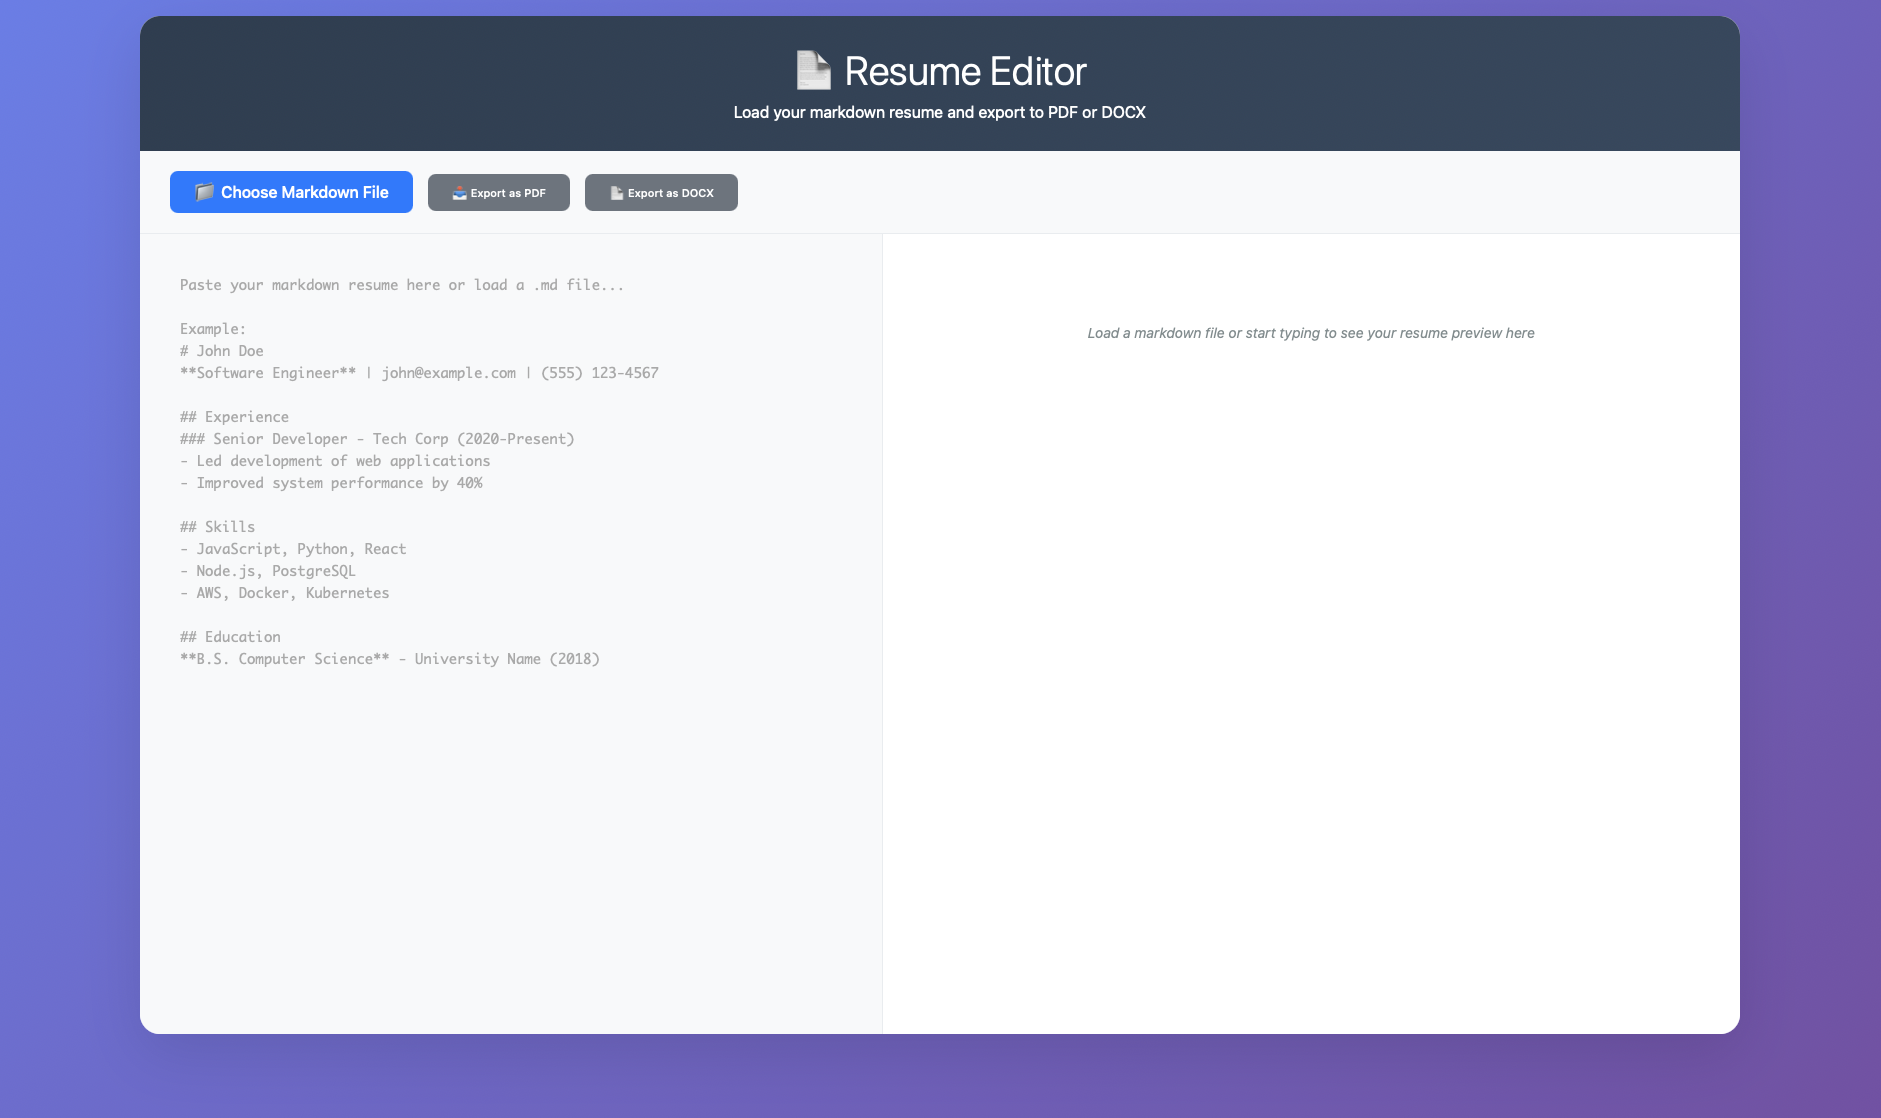
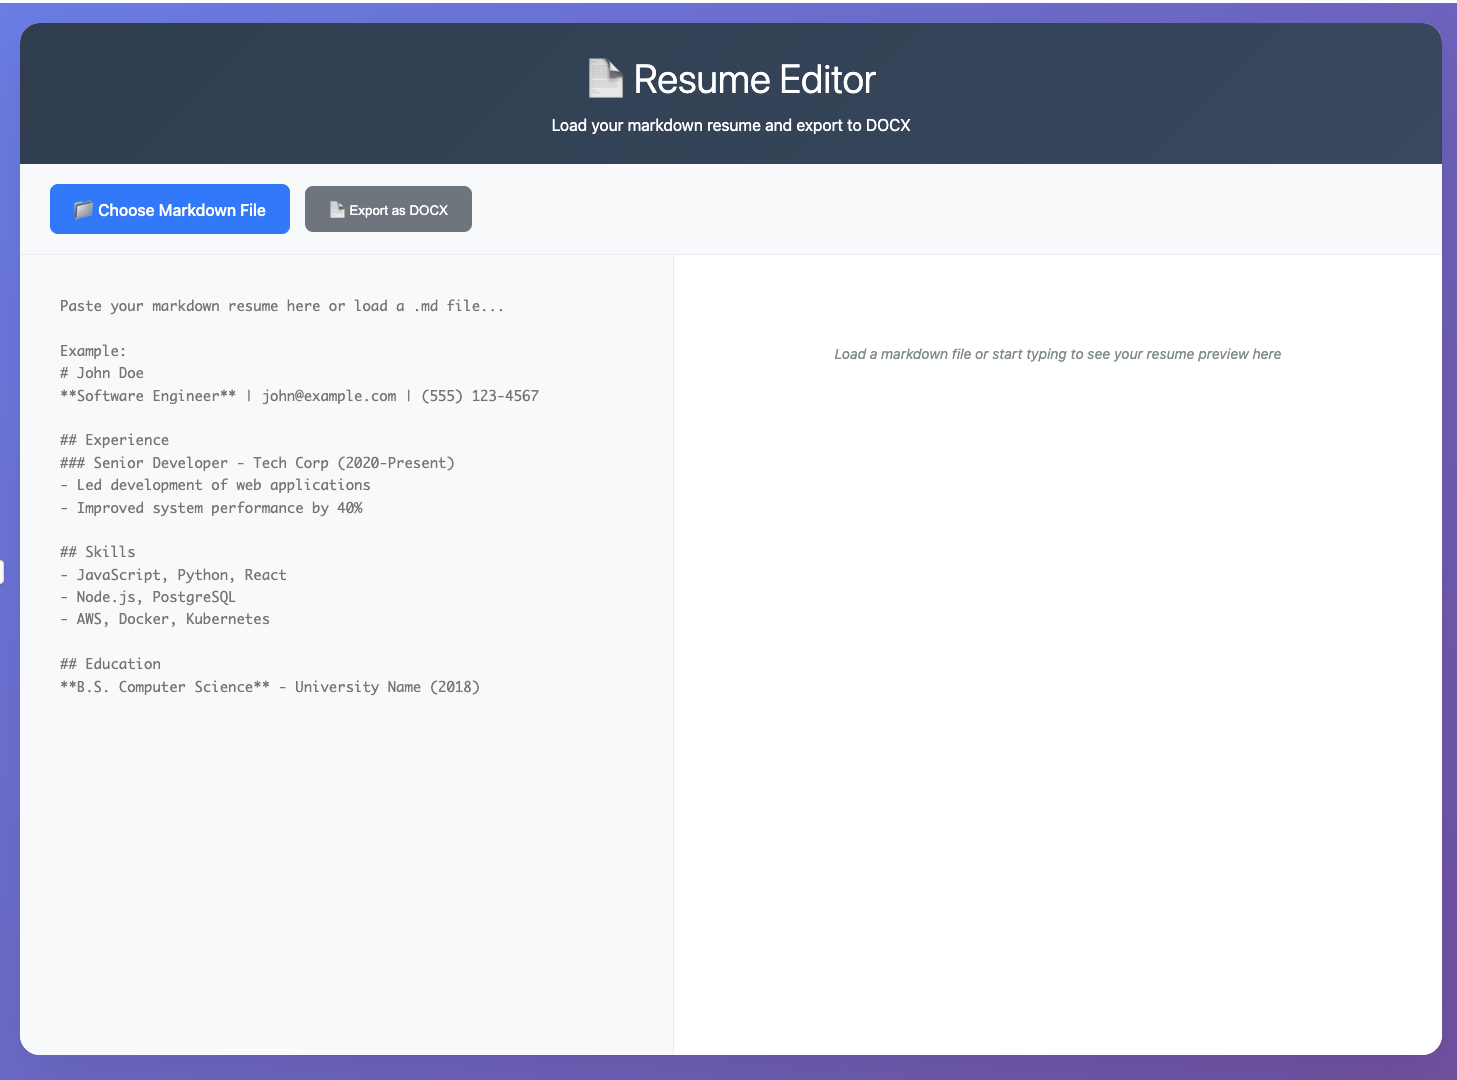
removed PDF option

Changed region(s): [[0.0, 0.0, 1.0, 0.9778], [0.5868, 0.275, 0.8648, 0.3361], [0.2162, 0.5806, 0.3397, 0.6417]]

diff --git a/intex.html b/intex.html
@@ -5,7 +5,6 @@
     <meta name="viewport" content="width=device-width, initial-scale=1.0">
     <title>Resume Editor</title>
     <script src="https://cdnjs.cloudflare.com/ajax/libs/marked/4.3.0/marked.min.js"></script>
-    <script src="https://cdnjs.cloudflare.com/ajax/libs/html2pdf.js/0.10.1/html2pdf.bundle.min.js"></script>
     <script src="https://cdnjs.cloudflare.com/ajax/libs/FileSaver.js/2.0.5/FileSaver.min.js"></script>
     <script src="https://unpkg.com/html-docx-js@0.3.1/dist/html-docx.js"></script>
     <style>
@@ -83,33 +82,6 @@
             background: #0056b3;
             transform: translateY(-2px);
             box-shadow: 0 4px 12px rgba(0,123,255,0.3);
-        }
-
-        .export-btn {
-            background: #28a745;
-            color: white;
-            border: none;
-            padding: 12px 24px;
-            border-radius: 8px;
-            cursor: pointer;
-            font-weight: 500;
-            transition: all 0.3s ease;
-            display: flex;
-            align-items: center;
-            gap: 8px;
-        }
-
-        .export-btn:hover {
-            background: #1e7e34;
-            transform: translateY(-2px);
-            box-shadow: 0 4px 12px rgba(40,167,69,0.3);
-        }
-
-        .export-btn:disabled {
-            background: #6c757d;
-            cursor: not-allowed;
-            transform: none;
-            box-shadow: none;
         }
 
         .export-docx-btn {
@@ -292,7 +264,7 @@
                 align-items: stretch;
             }
             
-            .file-label, .export-btn, .export-docx-btn {
+            .file-label, .export-docx-btn {
                 justify-content: center;
             }
 
@@ -351,7 +323,7 @@
     <div class="container">
         <div class="header">
             <h1>📄 Resume Editor</h1>
-            <p>Load your markdown resume and export to PDF or DOCX</p>
+            <p>Load your markdown resume and export to DOCX</p>
         </div>
         
         <div class="controls">
@@ -361,9 +333,6 @@
                     📁 Choose Markdown File
                 </label>
             </div>
-            <button id="exportBtn" class="export-btn" disabled>
-                📥 Export as PDF
-            </button>
             <button id="exportDocxBtn" class="export-docx-btn" disabled>
                 📄 Export as DOCX
             </button>
@@ -409,7 +378,6 @@ Example:
         const fileInput = document.getElementById('fileInput');
         const markdownInput = document.getElementById('markdownInput');
         const resumePreview = document.getElementById('resumePreview'); // Changed to target the resume-content div directly
-        const exportBtn = document.getElementById('exportBtn');
         const exportDocxBtn = document.getElementById('exportDocxBtn');
         let debounceTimer;
 
@@ -446,76 +414,19 @@ Example:
                 try {
                     const html = marked.parse(markdownText); // Parse markdown to HTML
                     resumePreview.innerHTML = html; // Display HTML in preview area
-                    exportBtn.disabled = false; // Enable PDF export button
                     exportDocxBtn.disabled = false; // Enable DOCX export button
                 } catch (error) {
                     // Display error message if markdown parsing fails
                     resumePreview.innerHTML = '<div class="sample-resume">Error parsing markdown. Please check your syntax.</div>';
-                    exportBtn.disabled = true; // Disable export buttons on error
                     exportDocxBtn.disabled = true;
                     console.error('Markdown parsing error:', error);
                 }
             } else {
                 // Display sample text if input is empty
                 resumePreview.innerHTML = '<div class="sample-resume">Load a markdown file or start typing to see your resume preview here</div>';
-                exportBtn.disabled = true; // Disable export buttons
-                exportDocxBtn.disabled = true;
+                exportDocxBtn.disabled = true; // Disable export button
             }
         }
-
-        // Export to PDF function
-        exportBtn.addEventListener('click', function() {
-            // Create a temporary element to hold the content for PDF generation
-            // This ensures only the actual resume content is exported, without page break visuals
-            const tempPdfElement = document.createElement('div');
-            tempPdfElement.style.width = '8.5in'; // Match letter width
-            tempPdfElement.style.padding = '0.5in 0.6in'; // Match desired margins
-            tempPdfElement.innerHTML = marked.parse(markdownInput.value.trim()); // Parse markdown directly
-
-            document.body.appendChild(tempPdfElement); // Temporarily add to DOM for html2pdf to render
-
-            // PDF generation options
-            const opt = {
-                margin: [0.5, 0.6, 0.5, 0.6], // Top, Left, Bottom, Right margins in inches
-                filename: 'resume.pdf',
-                image: { type: 'jpeg', quality: 0.98 }, // Image quality for canvas rendering
-                html2canvas: { 
-                    scale: 2, // Scale factor for rendering HTML to canvas (higher for better quality)
-                    useCORS: true, // Enable cross-origin images (if any)
-                    letterRendering: true // Optimize text rendering
-                },
-                jsPDF: { 
-                    unit: 'in', // Unit for jsPDF (inches)
-                    format: 'letter', // Page format (Letter: 8.5in x 11in)
-                    orientation: 'portrait' // Page orientation
-                }
-            };
-
-            exportBtn.textContent = '⏳ Generating PDF...'; // Update button text
-            exportBtn.disabled = true; // Disable button during generation
-            exportDocxBtn.disabled = true; // Disable other export button too
-
-            // Generate and save PDF
-            html2pdf().set(opt).from(tempPdfElement).save().then(() => {
-                document.body.removeChild(tempPdfElement); // Clean up temporary element
-                exportBtn.innerHTML = '📥 Export as PDF'; // Restore button text
-                // Re-enable buttons if markdown content exists
-                if (markdownInput.value.trim()) { 
-                    exportBtn.disabled = false;
-                    exportDocxBtn.disabled = false;
-                }
-            }).catch((error) => {
-                document.body.removeChild(tempPdfElement); // Clean up temporary element even on error
-                console.error('PDF generation failed:', error);
-                console.warn('Failed to generate PDF. Please try again.'); // User-friendly warning
-                exportBtn.innerHTML = '📥 Export as PDF'; // Restore button text
-                // Re-enable buttons if markdown content exists
-                 if (markdownInput.value.trim()) {
-                    exportBtn.disabled = false;
-                    exportDocxBtn.disabled = false;
-                }
-            });
-        });
 
         // Function to get CSS styles specifically for DOCX export
         function getDocxStyles() {
@@ -609,7 +520,6 @@ Example:
         exportDocxBtn.addEventListener('click', function() {
             exportDocxBtn.textContent = '⏳ Generating DOCX...'; // Update button text
             exportDocxBtn.disabled = true; // Disable button during generation
-            exportBtn.disabled = true; // Disable other export button too
 
             try {
                 // Get HTML content by parsing markdown directly, excluding visual page breaks
@@ -656,19 +566,17 @@ Example:
                 saveAs(converted, 'resume.docx');
 
                 exportDocxBtn.innerHTML = '📄 Export as DOCX'; // Restore button text
-                // Re-enable buttons if markdown content exists
+                // Re-enable button if markdown content exists
                 if (markdownInput.value.trim()) { 
                    exportDocxBtn.disabled = false;
-                   exportBtn.disabled = false;
                 }
             } catch (error) {
                 console.error('DOCX generation failed:', error);
                 console.warn('Failed to generate DOCX. Please try again.'); // User-friendly warning
                 exportDocxBtn.innerHTML = '📄 Export as DOCX'; // Restore button text
-                // Re-enable buttons if markdown content exists
+                // Re-enable button if markdown content exists
                 if (markdownInput.value.trim()) {
                    exportDocxBtn.disabled = false;
-                   exportBtn.disabled = false;
                 }
             }
         });

diff --git a/README.md b/README.md
@@ -1,72 +1,48 @@
-# **Resume Editor**
+# 📄 Resume Editor
 
-This is a simple web application designed to help you manage your resume in a browser. It's particularly useful for tailoring your resume to different job descriptions, aiming to simplify the updating process and reduce the effort often associated with optimizing for Applicant Tracking Systems (ATS). Write your resume in Markdown, preview it in your browser, and then export it as a professional PDF or DOCX document.
+A simple browser-based tool to edit markdown resumes and export to DOCX. Perfect for quickly tailoring your resume for different job applications.
 
-## **Features**
+## 🌐 Live Demo
 
-* **Markdown to HTML Conversion:** Your Markdown resume is converted and displayed as standard HTML right in your browser.  
-* **File Upload:** You can easily load your resume from a .md or .txt file.  
-* **Live Preview:** As you type or load a file, you'll see your resume update instantly on the right side of the screen.  
-* **Export to PDF:** Generate a PDF version of your resume, complete with predefined page margins and in standard letter format.  
-* **Export to DOCX:** Create a Microsoft Word (.docx) document of your resume, also with consistent page margins and letter format.  
-* **Consistent Margins:** Ensure the page margins look similar whether you're viewing it in your browser, as a PDF, or as a DOCX file.
+Visit the live application: [https://bgx4k3p.github.io/resume-editor](https://bgx4k3p.github.io/resume-editor)
 
-## **How to Use**
+## 🎯 Why Use This?
 
-Setting up and using this project is quite simple, as it's just a single HTML file.
+- **Quick customization**: Edit your resume in markdown for fast changes
+- **No software needed**: Runs entirely in your browser
+- **Professional output**: Export clean DOCX files ready for job applications
+- **Version control friendly**: Keep your resume in markdown format for version control and other automations
 
-1. **Download:** Grab the resume-editor.html file and save it to your computer.  
-2. **Open in Browser:** Just double-click the resume-editor.html file, or drag it into your preferred web browser (like Chrome, Firefox, Edge, or Safari).
+## ✨ How to Use
 
-### **Viewing Your Resume**
+1. **Start typing** your resume in markdown format (left panel)
+2. **See live preview** in the right panel
+3. **Export to DOCX** when ready
+4. Or **load existing** `.md` files to edit
 
-* **Type Directly:** You can start typing or paste your Markdown-formatted resume directly into the large text area on the left. The preview will update as you go.  
-* **Load a File:** If you have your resume saved as a Markdown file, click the "Choose Markdown File" button to select a .md or .txt file from your computer. The content will appear in the editor, and the preview will update.
+## 📝 Example Resume Format
 
-### **Exporting Your Resume**
+```markdown
+# John Doe
+**Software Engineer** | john@example.com | (555) 123-4567
 
-Once your resume looks good in the preview:
+## Experience
+### Senior Developer - Tech Corp (2020-Present)
+- Led development of web applications
+- Improved system performance by 40%
 
-* **Export as PDF:** Click the "Export as PDF" button. A PDF file named resume.pdf will be created and downloaded.  
-* **Export as DOCX:** Click the "Export as DOCX" button. A DOCX file named resume.docx will be created and downloaded.
+## Skills
+- JavaScript, Python, React
+- AWS, Docker, Kubernetes
 
-## **Margin Consistency**
+## Education
+**B.S. Computer Science** - University Name (2018)
+```
 
-The application is set up to use standard **Letter (8.5in x 11in)** paper format with the following margins for both PDF and DOCX exports:
+## 💡 Perfect For
 
-* **Top Margin:** 0.5 inches  
-* **Bottom Margin:** 0.5 inches  
-* **Left Margin:** 0.6 inches  
-* **Right Margin:** 0.6 inches
+Job seekers who need to quickly customize resumes for different applications without the hassle of traditional word processors.
 
-The live web preview is designed to give you a good idea of how these margins will look in the final exported documents.
+## 📄 License
 
-## **Technologies Used**
-
-This project relies on a few key web technologies and libraries:
-
-* **HTML5:** Provides the basic structure for the web page.  
-* **CSS3:** Handles all the styling and ensures the layout adapts to different screen sizes.  
-* **JavaScript (ES6+):** Powers all the interactive features.  
-* **Marked.js:** This library quickly converts your Markdown text into HTML.  
-  * [https://cdnjs.cloudflare.com/ajax/libs/marked/4.3.0/marked.min.js](https://cdnjs.cloudflare.com/ajax/libs/marked/4.3.0/marked.min.js)  
-* **html2pdf.js:** Used for generating PDF files directly from the HTML content.  
-  * [https://cdnjs.cloudflare.com/ajax/libs/html2pdf.js/0.10.1/html2pdf.bundle.min.js](https://cdnjs.cloudflare.com/ajax/libs/html2pdf.js/0.10.1/html2pdf.bundle.min.js)  
-* **FileSaver.js:** Helps in saving the generated PDF and DOCX files to your computer.  
-  * [https://cdnjs.cloudflare.com/ajax/libs/FileSaver.js/2.0.5/FileSaver.min.js](https://cdnjs.cloudflare.com/ajax/libs/FileSaver.js/2.0.5/FileSaver.min.js)  
-* **html-docx-js:** Converts the HTML content into a DOCX format.  
-  * [https://unpkg.com/html-docx-js@0.3.1/dist/html-docx.js](https://unpkg.com/html-docx-js@0.3.1/dist/html-docx.js)
-
-## **Interface**
-
-Here's a quick look at the Resume Editor in action:
-
-![ui.png](ui.png)
-
-## **Contributing**
-
-If you'd like to contribute, feel free to fork this repository, open issues, or submit pull requests. Your contributions are welcome\!
-
-## **License**
-
-This project is open source and available under the [MIT License](https://opensource.org/licenses/MIT).
+MIT License
